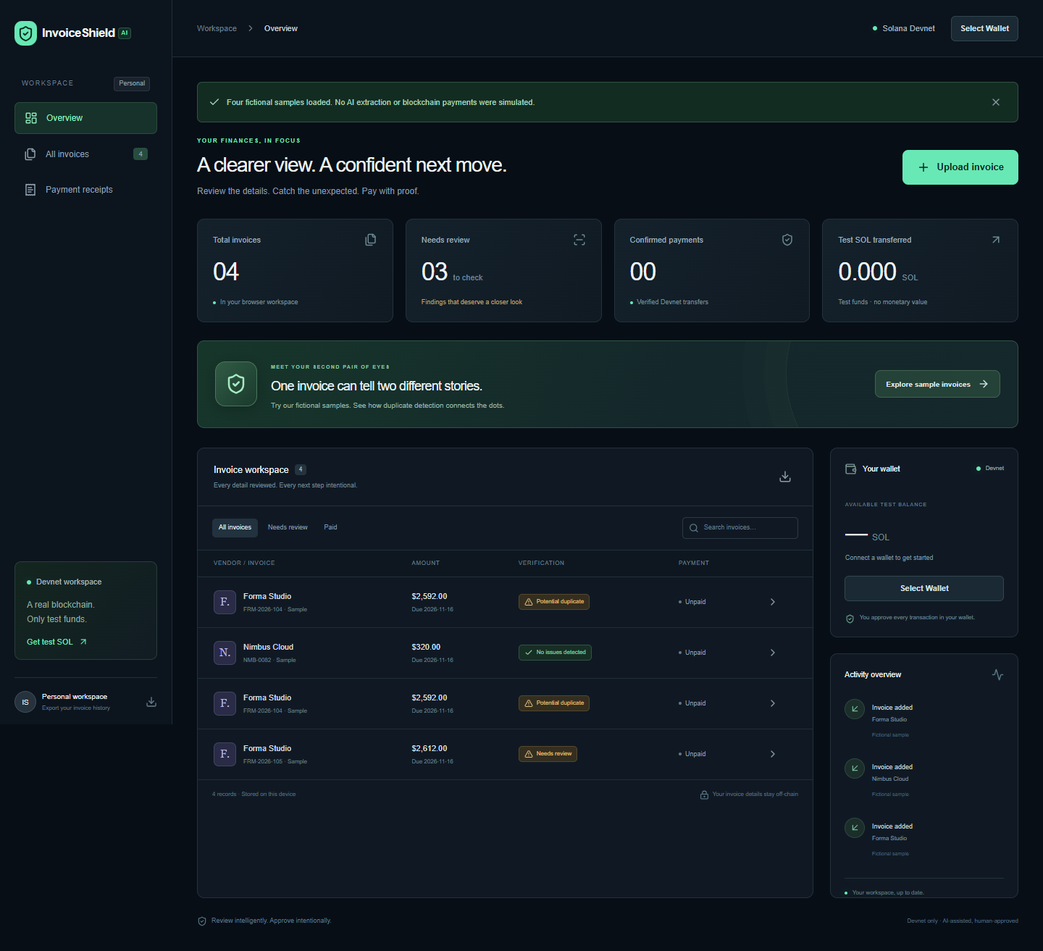
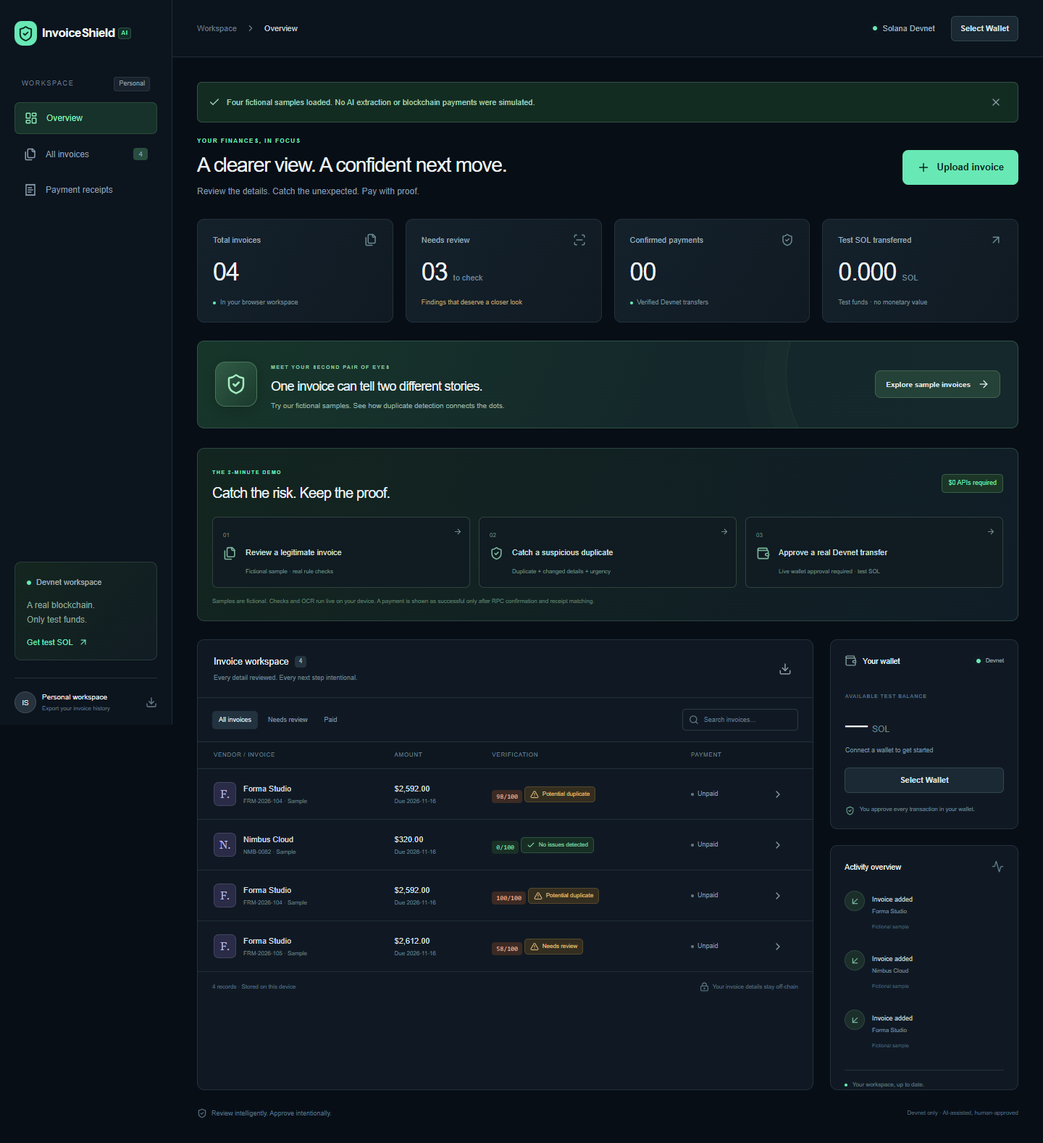
Document verified free demo and hackathon deployment handoff

diff --git a/README.md b/README.md
@@ -2,93 +2,98 @@
 
 **Verify smarter. Pay faster. Prove everything.**
 
-Invoice review and independently verifiable Solana Devnet transfers for small businesses. Built for a beginner hackathon entry: a compact, understandable workflow rather than a custom financial protocol.
+A free-first invoice review workspace with local document reading, explainable risk checks, optional local semantic AI, and wallet-approved Solana Devnet transfers.
 
-## What it does
+## A complete demo without paid APIs
 
-- Upload a PDF, PNG, or JPEG, preview it, and correct extracted invoice fields.
-- Optional OpenAI document interpretation and semantic comparison against summaries of up to 20 recent invoices through a server-only Responses API endpoint with schema validation. Missing values stay null. Invoice content and history are treated as untrusted data.
-- Deterministic checks for required fields, subtotal/tax arithmetic, quantity × price, line totals, exact duplicates, similar invoices, unusual amounts, and changed vendor payment details.
-- Invoice history in localStorage and original documents in IndexedDB. Export history as JSON. Nothing is shared across devices or users.
-- Connect a Solana Wallet Standard compatible wallet through wallet adapter, view its Devnet balance, and explicitly approve a separate test SOL transfer.
-- Verify RPC network identity, confirmation, sender signature, transfer recipient, and amount before showing a confirmed receipt. Print or open the transaction on Explorer.
-- Samples are clearly fictional. No AI run or blockchain transfer is simulated as real.
+- PDF text extraction with PDF.js and image/scanned-PDF OCR with Tesseract.js run in your browser. Workers and English recognition data are served by this app; documents are not sent to an OCR service.
+- Field mapping preserves unknown values as blank. Users can correct fields or paste document text. This is a limited pattern parser, not universal invoice understanding.
+- Deterministic rules check arithmetic, exact/near duplicates, changed payment details, unusual amounts, missing fields, urgent/secret payment requests, and embedded review instructions.
+- A transparent 0–100 rule-based review-priority score helps triage invoices. It is not a probability of fraud. High findings count 40 points per category, medium 18, informational 5; repeated findings in one category count once.
+- Optional Ollama analysis adds a separately labeled semantic report. When no model ran, the interface says so. Local OCR performs text recognition, not a semantic fraud verdict.
+- OpenAI remains optional and is disabled by default, even when a key is present. No API credits are required for the demo.
+- Wallet Standard connection, Devnet balances, explicitly approved test SOL transfers, confirmation checks, and matched on-chain receipts. No private key or seed phrase is requested or stored.
 
 ## Run locally
 
-Requires Node.js 20.9+ and pnpm 10.11.0. Node 24 was used for local checks.
+Use Node 24 and pnpm 10.11.0.
 
-```sh
-corepack enable
-pnpm install --frozen-lockfile
-cp .env.example .env.local
-pnpm dev
-```
+    corepack enable
+    pnpm install --frozen-lockfile
+    pnpm dev
 
-Open [the local app](http://127.0.0.1:3000). On Windows, copy `.env.example` to `.env.local` using File Explorer or `Copy-Item .env.example .env.local`.
+Open http://127.0.0.1:3000. No environment variables are needed for the free demo. The dev/build scripts prepare local PDF and OCR worker assets automatically. The English OCR model is included in the repository.
 
-The application works without an AI key through manual entry and deterministic checks. For document extraction, set `OPENAI_API_KEY` on the server. `OPENAI_MODEL` defaults to `gpt-4.1-mini`; choose an account-accessible model supporting image/PDF input and Structured Outputs. Configure `INVOICE_ANALYSIS_TOKEN` for public deployments and enter it in the upload dialog. It is required for paid extraction in production. Never put the API key in a `NEXT_PUBLIC_` variable or commit `.env.local`.
+If pnpm is already installed, Corepack setup is unnecessary. Windows PowerShell can copy the optional configuration with: Copy-Item .env.example .env.local.
 
-## Try the demo
+## Two-minute guided demo
 
-1. Open the workspace and choose **Explore sample invoices**.
-2. Open Forma Studio invoice 104 to inspect the exact duplicate warning. Open invoice 105 to inspect the near duplicate warning.
-3. Use the fictional Nimbus Cloud invoice for a clean review, or upload [the normal invoice image](public/samples/normal.png) with AI configured. [Exact duplicate](public/samples/exact-duplicate.png) and [near duplicate](public/samples/near-duplicate.png) images are also included.
-4. Connect your wallet and switch its display to **Solana Devnet**. Get test SOL from [Solana Faucet](https://faucet.solana.com/).
-5. Choose **Review test payment**, enter an independently confirmed recipient wallet, set a separate test SOL amount (e.g. 0.01), check the approval box, and sign in your wallet.
-6. Wait for confirmation and matching receipt verification. If RPC availability is delayed, use **Verify submitted transfer**. Do not send a second payment to resolve a timeout.
+1. Open the dashboard. Select Upload invoice, choose public/samples/normal.png, and click Extract for free. This performs real local OCR. Review and save the fields.
+2. Select Catch a suspicious duplicate in the guided demo. The fictional sample has a matching invoice number, changed payment details, and urgent instructions. Findings are live deterministic results, not prerecorded AI output. High-severity findings block payment.
+3. Select Review a legitimate invoice for the clean fictional Nimbus Cloud record.
+4. Connect a compatible Solana wallet, switch its display to Devnet, and get test SOL from https://faucet.solana.com/.
+5. Select Approve a real Devnet transfer. Enter an independently confirmed recipient and a separate test SOL amount, check the explicit confirmation, and sign in your wallet.
+6. Wait for RPC confirmation and sender/recipient/amount matching. Inspect Explorer and print the receipt. If verification is delayed, retry the same signature; do not send another payment.
 
-Sample loading does not run AI. To demonstrate actual AI extraction, upload a sample image with the server key configured. Samples 104 and its exact copy both flag each other once saved. High-severity findings block payment. The Nimbus sample has no duplicate.
+The invoice can be in USD while the demo transfer is in test SOL. This transfer does not settle the invoice's fiat value. A transfer receipt does not prove a vendor's identity. The app never simulates a successful payment.
 
-## Validation
+Downloadable PNG samples include normal, exact-duplicate, near-duplicate, and suspicious-duplicate. The guided samples are fictional, prefilled scenario data. Loading them does not claim OCR or a semantic model ran.
 
-```sh
-pnpm test
-pnpm typecheck
-pnpm build
-pnpm start
-```
+## Optional free semantic AI
 
-See [verification status](docs/VERIFICATION.md) for observed results and checks still requiring credentials or wallet approval. The payment unit tests use mocked RPC and signatures from ephemeral test keypairs; they do not prove a live Devnet transaction happened.
+Ollama is not required to run the demo. It was not installed/running on the development computer during verification. See docs/FREE-DEMO.md for optional setup and limitations.
 
-Browser smoke testing is provided by `pnpm test:browser`. It uses installed Edge by default; set `BROWSER_EXECUTABLE` for another installed Chromium browser. The script expects a running local server at port 3000 and no AI key for its fallback assertion. It never signs payments. Run `pnpm samples` to regenerate the fictional PNGs and SVG source assets.
+Install Ollama from https://ollama.com/download/windows, then run:
 
-## Architecture
+    ollama pull qwen2.5:1.5b
+    ollama serve
 
-Next.js App Router + TypeScript, Tailwind CSS with a shared fintech design system, Radix Dialog for focus-managed dialogs, and Lucide icons. The only custom backend endpoint is `POST /api/analyze`. AI input is bounded and checked against file signatures and declared MIME type. OpenAI structured output is validated with Zod. Deterministic invoice checks run locally and compare the current browser’s records.
+The model download is roughly 986 MB; performance depends on your hardware. OLLAMA_MODEL can select another installed model. The app checks for the configured local model and enables Analyze with Ollama when available. Only extracted text and a bounded summary of local history go to the local process. Results are schema validated and shown separately from rules.
 
-Solana wallet adapter discovers installed Wallet Standard wallets. `@solana/web3.js` creates a System Program transfer on the hardcoded Devnet RPC. A genesis-hash check refuses other networks. The application receives a signed transaction from the wallet, persists its signature before broadcast, then checks confirmation and queries parsed on-chain transfer details. Invoice data never goes into a memo or any other instruction.
+A hosted Vercel function cannot reach Ollama on your laptop. The public deployment uses free browser extraction and rule-based review; optional local semantic AI is for the local development server. Never expose Ollama publicly to work around that boundary.
 
-Payment duplication protection uses an in-flight guard, a cross-tab Web Lock, and a persisted pending/confirmed record. This prevents accidental repeats in the same browser profile. It is **not** a multi-user payment ledger or protection against clearing browser storage. Production team use needs authenticated, durable server records and server-side idempotency.
+## Optional OpenAI provider
 
-## Security and limitations
+The server endpoint is retained for future use, but ENABLE_OPENAI defaults to false. To opt in separately, the owner must explicitly set ENABLE_OPENAI=true, OPENAI_API_KEY, and INVOICE_ANALYSIS_TOKEN and use the optional cloud button. It may consume paid API credits. It is not used by the free-demo tests. The committed Vercel configuration disables it.
 
-- Devnet test SOL only. The separately approved SOL amount does not settle the invoice’s USD value. Transfer proof does not verify a vendor’s identity.
-- Review findings are evidence to investigate, not a fraud verdict or a guarantee of safety. Duplicate comparisons cover only local history; vendor normalization and similarity rules can produce false positives or miss altered documents.
-- Monetary checks currently use two-decimal rounding. Review currencies with other minor-unit conventions manually.
-- AI can misread fields. All extracted values require human review. No OCR fallback runs without AI credentials; manual entry remains available for every supported document type.
-- Local browser records are not an authenticated accounting system. Device users can modify them. Export excludes original documents. Clearing browser data removes invoice and payment history. Back it up before clearing data.
-- A signed but unbroadcast or failed transfer remains locked as pending conservatively. Inspect Explorer / RPC and export the record for diagnosis; the app does not offer an unsafe reset-and-pay-again button.
-- Public Devnet RPC is rate limited and can be unavailable. Receipt confirmation may need retries. Only on-curve wallet recipients are accepted; PDA recipients are intentionally excluded.
-- The AI access token is shared demo access control, not user authentication. Keep it private, set an OpenAI project spend cap, and rotate it after judging. Production business use needs real authentication, durable rate limits, and account isolation.
-- No custom smart contract, escrow, lending, yield, or on-chain invoice storage. DeFi track eligibility has not been established.
+Credentials stay server-only in the ignored .env.local file. They must never be placed in NEXT_PUBLIC variables. The configured key previously reached OpenAI but returned credit_balance_exhausted; successful live OpenAI extraction is not claimed.
 
-## Deployment and submission
+## Tests and observed status
 
-See [Vercel deployment](docs/DEPLOYMENT.md), [demo script](docs/DEMO.md), [submission draft](docs/SUBMISSION.md), and [AI development disclosure](docs/AI-DISCLOSURE.md).
+    pnpm test
+    pnpm typecheck
+    pnpm build
+    pnpm start
 
-No deployment URL is claimed until Vercel account authorization and live checks are complete.
+With a server running on port 3000:
 
-## Screenshots
+    pnpm test:free-demo
+    pnpm test:browser
 
-Browser screenshots are stored under `docs/screenshots/`. They show fictional sample data and must not be used to imply a live payment or live AI test occurred.
+The free-demo browser test performs actual PNG/JPEG OCR and PDF extraction, checks fields against fictional fixtures, inspects suspicious findings, and asserts no cloud AI calls. Browser tests use installed Microsoft Edge by default; BROWSER_EXECUTABLE can select another Chromium browser.
 
-![InvoiceShield landing page](docs/screenshots/landing.png)
-![InvoiceShield dashboard with fictional sample data](docs/screenshots/dashboard.png)
-![Invoice review and duplicate findings](docs/screenshots/review.png)
+See docs/VERIFICATION.md for actual results and remaining live-wallet/deployment checks. Unit tests use mocked RPC and local-model responses. They are not evidence that a live wallet signed a payment or that Ollama ran.
 
-## License
+## Architecture and boundaries
 
-Original project code is MIT licensed. Dependencies retain their respective licenses; see the lockfile for exact installed versions. Invoice samples are fictional project assets.
+Next.js App Router, TypeScript, Tailwind CSS, Radix Dialog, Lucide icons, PDF.js, Tesseract.js, Zod, Solana wallet adapter, and the Solana JavaScript SDK. Records live in localStorage; original documents live in IndexedDB. JSON export excludes original files. Clearing browser data removes history. There is no shared multi-user accounting backend.
 
-Implementation references: [Next.js installation](https://nextjs.org/docs/app/getting-started/installation), [OpenAI file inputs](https://developers.openai.com/api/docs/guides/file-inputs), [OpenAI Structured Outputs](https://developers.openai.com/api/docs/guides/structured-outputs), and [Solana payment RPC guidance](https://solana.com/docs/payments/interacting-with-solana).
+The payment path checks the full Devnet genesis hash, builds a System Program transfer, verifies that the wallet-signed message matches the approved message, persists its signature before broadcasting, and verifies confirmation plus actual transfer details. Network errors can retry receipt lookup without creating another transaction. Cross-tab Web Locks, in-flight guards, and persisted pending records prevent accidental resubmission in one browser profile. They do not provide durable multi-user idempotency.
+
+Upload limits: 4 MB, at most five PDF pages, English OCR. Layout variation and poor scans can cause missing or misread fields. Monetary rules currently use two-decimal rounding. Similarity and suspicious-request rules can generate false positives and miss altered invoices. A zero score does not establish safety or authenticity.
+
+Signed but unbroadcast/failed transactions remain conservatively pending for inspection; the app offers no unsafe reset-and-pay-again shortcut. Public Devnet RPC is rate limited. Only on-curve wallet recipients are accepted. No custom contract, escrow, lending, yield, or real-funds settlement is implemented.
+
+## Submission materials
+
+- docs/DEMO.md: free two-minute script and judge questions.
+- docs/DEPLOYMENT.md: free Vercel deployment checklist.
+- docs/SUBMISSION.md: honest submission draft and award positioning.
+- docs/AI-DISCLOSURE.md: development and runtime AI disclosure.
+- docs/FREE-DEMO.md: local-model setup and fallback matrix.
+
+![Dashboard with fictional sample data](docs/screenshots/dashboard.png)
+![Real local OCR extraction](docs/screenshots/free-extraction.png)
+![Suspicious invoice review](docs/screenshots/suspicious-review.png)
+
+Original code is MIT licensed. Adapted wallet styling, PDF/OCR software, and OCR language data retain their respective licenses; see third-party/README.md.

diff --git a/docs/DEMO.md b/docs/DEMO.md
@@ -1,27 +1,33 @@
-# 110-second demo script
+# Two-minute demo: entirely free
 
-Rehearse on the deployed URL with a funded Devnet wallet, a recipient wallet address you independently confirmed, and AI already configured. Have the access token ready. Do not record private wallet information or the API key. If these prerequisites are unavailable, describe the limitation honestly rather than replacing a live transaction with a fake success.
+Prerequisites: app running locally or on a free deployment, compatible wallet with Devnet test SOL, and an independently confirmed recipient. No paid API key or access token is needed. Rehearse the wallet steps; Devnet confirmation can take longer than the target video window. Never replace a delayed transaction with a fake success.
 
-**0–15 seconds — Problem.** “A duplicate invoice can look completely ordinary. InvoiceShield AI gives small businesses a second pair of eyes before money moves, and verifiable proof afterward.” Open the landing page and launch the workspace.
+**0–15 seconds — Problem.** “A duplicate invoice can look ordinary. InvoiceShield gives small businesses a second pair of eyes before money moves and independent proof afterward.” Show the landing page, then open the workspace.
 
-**15–40 seconds — Real extraction.** Upload `public/samples/normal.png`, select Extract with AI, and show the populated fields. “AI reads the document; I review what it extracted. Unknown fields stay blank.” Save the record. If no AI key is available, say “AI is not configured in this demo; these fields are manually entered,” and use the deterministic path explicitly.
+**15–40 seconds — Actual free extraction.** Upload normal.png and click Extract for free. “This is real text recognition on my device, with no paid API. The extracted values are editable; unknown values stay blank.” Show vendor, reference, totals, and line items. Save.
 
-**40–60 seconds — Duplicates.** Upload `exact-duplicate.png` using AI, save, and open the duplicate finding. “The vendor and invoice number match an earlier record. This check works without AI and blocks payment.” If time is short, use loaded fictional samples and clearly identify them.
+**40–65 seconds — Risk and evidence.** Select Catch a suspicious duplicate. “The invoice number matches an earlier record. Payment details changed, and the document demands an urgent transfer. These are deterministic findings with visible evidence. The score prioritizes review; it is not a fraud probability.” Show that payment is blocked. Identify the record as fictional sample data.
 
-**60–75 seconds — Clean invoice.** Open the clean fictional Nimbus Cloud sample. “Here the fields and arithmetic agree. This is a review aid, not a guarantee of authenticity.” Select Review test payment and connect the wallet.
+**65–80 seconds — Legitimate record.** Select Review a legitimate invoice. “The Nimbus Cloud sample has complete fields and consistent arithmetic. No detected issue is not a guarantee of authenticity. I still verify the recipient independently.” Connect the Devnet wallet.
 
-**75–100 seconds — Actual Devnet transfer.** Enter the confirmed recipient and 0.01 test SOL, approve the explicit confirmation, then sign in the wallet. “The invoice is in USD, but this is a separate test SOL demonstration. It does not settle the dollar invoice.” Wait for real confirmation. Allow additional time if Devnet RPC is slow; never substitute a fake confirmation.
+**80–110 seconds — Real transfer.** Select Approve a real Devnet transfer, enter the recipient and 0.01 test SOL, explicitly confirm, and sign in the wallet. “This is a real Devnet transfer using test funds. It does not settle the invoice's USD value. The app never signs for me.” Wait for actual confirmation.
 
-**100–110 seconds — Proof.** Show the receipt and Explorer. “InvoiceShield checks the confirmed transfer’s sender, recipient, and amount against what I approved. No invoice details are written on-chain. Verify smarter. Pay faster. Prove everything.”
+**110–120 seconds — Proof.** Open the verified receipt and Explorer. “The sender, recipient, and amount are checked against the blockchain. No invoice details go on-chain. Verify smarter. Pay faster. Prove everything.”
+
+## AI explanation for judges
+
+Local OCR performs neural text recognition. PDF text extraction and field mapping are distinct from semantic reasoning. Rules handle arithmetic, duplicates, changed details, and suspicious instructions. Optional Ollama can add a separately labeled semantic report when a local model is installed and has actually completed a request. If it is not available, say exactly that. Do not claim that rule-based findings came from a language model.
+
+For an AI-track demonstration with Ollama, preinstall and warm the model before recording, run it on the local server, and show the returned report and model label. Its integration is not a claim of successful model inference until tested on the owner's computer.
 
 ## Judge questions
 
-**Why Solana?** The payment is a real Devnet System Program transfer. Its confirmation and transfer data can be checked independently of the application. There is no unnecessary custom contract.
+**Why Solana?** A wallet-approved Devnet System Program transfer produces independently inspectable payment evidence. There is no unnecessary custom contract.
 
-**What is AI doing?** Interpreting PDF/image content and explaining extraction uncertainties. Arithmetic and duplicate rules are deterministic. AI never authorizes payments.
+**Does the app detect proven fraud?** No. It identifies review signals. Vendor identity and invoice authenticity require independent verification.
 
-**What is stored?** Records in this browser’s localStorage, originals in IndexedDB. Only a SOL transfer goes on-chain. A future team product needs authenticated, durable storage.
+**What stops duplicates?** Rule checks compare browser history. Payment submission uses a persistent pending record, a cross-tab lock, and an in-flight guard. Production team use needs authenticated, durable records and server-enforced idempotency.
 
-**What prevents paying twice?** A persisted pending record, a per-browser cross-tab lock, and an in-flight guard. This is accidental-duplicate protection in a single browser, not a shared accounting ledger.
+**Where is data stored?** In this browser. Original documents stay in IndexedDB. OCR runs locally; optional Ollama receives text on the same development computer. Only the approved transfer goes on-chain.
 
-**Does a receipt prove an invoice is legitimate?** No. It proves a matching transfer occurred on Devnet. Business identity and invoice authenticity still require human verification.
+**What is free?** PDF reading, local OCR, rules, sample scenarios, optional local Ollama inference, and Devnet test funds. Public hosting requires an account that qualifies for the chosen free plan. OpenAI is disabled and unnecessary.

diff --git a/docs/VERIFICATION.md b/docs/VERIFICATION.md
@@ -1,32 +1,28 @@
 # Verification status
 
-## Observed locally
+## Verified free workflow
 
-- `vitest run`: 34 tests passed across invoice, upload endpoint, and payment suites.
-- `tsc --noEmit`: passed.
-- `next build`: passed; `/`, `/dashboard`, and `/api/analyze` built successfully.
-- `next dev --hostname 127.0.0.1`: started successfully.
-- HTTP GET `/` and `/dashboard`: returned 200.
-- Production server (`next start`): started successfully.
-- Headless Edge browser regression against the production server: passed landing navigation, sample loading, exact and near duplicate findings, PNG upload preview, honest missing-key AI fallback, manual field entry and saving, no-wallet payment gating, reload persistence, mobile navigation, and no page errors.
-- Mobile viewport at 390 × 844: no page-wide horizontal overflow. Invoice tables scroll within their card. Landing, dashboard, review, and mobile screenshots were captured; mobile and review screenshots were visually inspected after fixes.
-- Live read-only Solana Devnet RPC `getGenesisHash`: returned `EtWTRABZaYq6iMfeYKouRu166VU2xqa1wcaWoxPkrZBG`, matching the network safeguard. This is not a transaction test.
-- `git diff --check`: passed.
+- 54 unit tests pass across invoice validation/arithmetic/duplicates, local field mapping, suspicious payment requests, risk scoring, optional local-model endpoint validation, private diagnostics, cloud opt-in behavior, and payment safeguards.
+- TypeScript passes and the Next.js production build succeeds with the local PDF/OCR assets prepared.
+- Actual browser tests on fictional fixtures pass for PNG/JPEG OCR and PDF extraction. Vendor, reference, dates, subtotal, tax, total, and line items were checked against known values in the PNG fixture. PDF/JPEG vendor and total were also checked.
+- Free-demo tests assert no OpenAI/cloud-analysis requests. Semantic AI is explicitly NOT RUN when Ollama is absent.
+- Guided duplicate review detects the matching reference, changed payment details, and suspicious urgent instructions. High rule-based findings block payment.
+- Desktop/mobile browser smoke checks pass for landing navigation, samples, upload preview, disabled cloud provider, manual entry, saving, reload persistence, and payment gating. The payment dialog closes before the separate wallet selector opens; opening and closing that selector was verified. No page errors or page-wide mobile overflow were observed at 390 x 844.
+- Local development and production servers start successfully. GET / and /dashboard return 200.
+- The configured .env.local contains both existing credential variables, is ignored by Git, and is not tracked. Exact-value scans found neither credential in tracked source or browser static assets. Values were not displayed.
+- Read-only live Devnet identity and latest-blockhash RPC checks pass. The full genesis hash matches the pinned Devnet guard. Receipt readers now opt in to transaction version 1 supported by the locked SDK.
+- Payment tests cover wallet rejection, wallet-modified messages, persisted signatures before broadcast, failed confirmation, delayed lookup retries, transport-error recovery, and sender/recipient/amount matching. These are mocked-RPC tests, not live wallet approvals.
 
-These results apply to the implementation checked during development; rerun after changes.
+## External or optional checks still outstanding
 
-## Still requires external verification
+- A compatible installed wallet must be connected and funded with Devnet test SOL. The owner must confirm a recipient, approve a transfer in the wallet, and inspect the resulting confirmed receipt. No app-submitted real payment has been claimed.
+- Read-only sampling of recent public transactions did not find a suitable direct transfer; it was not used to seed a receipt or presented as an InvoiceShield payment.
+- Ollama was not installed/running. Optional semantic inference is not live-verified. The complete free demo does not depend on installing it.
+- An earlier explicitly requested OpenAI call reached the provider but returned credit_balance_exhausted. The current free build disables OpenAI by default and requires no funding. Successful live OpenAI extraction is not claimed.
+- GitHub push authorization, Vercel account/repository connection, free deployment, public URL checks, and final two-minute wallet rehearsal remain pending owner actions.
 
-- Actual OpenAI PDF and image extraction: no API credentials supplied.
-- Wallet discovery, connection, balance, signing, and a real Devnet transfer: requires an installed compatible wallet, test funds, confirmed recipient, and owner approval.
-- Live receipt matching: requires that real confirmed transfer.
-- Vercel deployment and public judging URL: requires owner account authorization and environment setup.
-- End-to-end demo duration: rehearse after live extraction and payment are enabled.
+## Honest demo boundaries
 
-Original document preview was exercised with PNG. PDF and JPEG model-content routing is covered by mocked endpoint tests; actual model interpretation of those formats remains unverified.
+Fictional samples contain prepared data. Loading them does not imply OCR or semantic analysis ran. Actual OCR tests are listed separately above. No successful blockchain receipt is preloaded. A score of zero is not a safety guarantee or a fraud probability.
 
-## Development handoff
-
-The implementation and documentation are committed locally. GitHub pushing and Vercel publication have not been authorized or performed. The application is not yet declared ready for judging because the live AI, wallet transaction, receipt, and deployment acceptance checks remain outstanding.
-
-Do not describe mocked RPC tests as a successful blockchain transfer. Do not describe sample loading as a successful AI analysis.
+Production-browser checks should be rerun after material application changes. A local build is not evidence that public deployment succeeded.

diff --git a/docs/DEPLOYMENT.md b/docs/DEPLOYMENT.md
@@ -1,23 +1,29 @@
-# Deploy to Vercel
+# Free Vercel deployment
 
-1. Push the committed repository to `Caidenn2/InvoiceShield-AI` when the owner authorizes pushing. The project is configured for Next.js with a pnpm lockfile.
-2. Sign in to Vercel and import that GitHub repository. Use the repository root, the detected Next.js preset, Node 24, `pnpm install --frozen-lockfile`, and `pnpm build`.
-3. Add server-only environment variables: `OPENAI_API_KEY`, optional `OPENAI_MODEL` (default `gpt-4.1-mini`), and a strong private `INVOICE_ANALYSIS_TOKEN`. The token is required to enable paid AI extraction in production. Configure an OpenAI project spending cap as well. Do not paste secrets into the repository, browser console, or chat.
-4. Deploy. Record only the actual URL returned by Vercel. Disable deployment protection for the judging URL if required; the owner should choose the desired public access setting.
-5. On the HTTPS deployment, open `/` and `/dashboard`. Upload a fictional PNG and PDF, check AI extraction, correct a value, save it, reload, and confirm history persists. Repeat on a mobile-sized viewport.
-6. Install/use a Wallet Standard compatible Solana wallet, switch it to Devnet, fund it with faucet test SOL, connect, verify the balance, confirm a recipient you control, and approve a small test transfer. Check the receipt against Solana Explorer with `cluster=devnet`.
-7. Print the receipt and rehearse the two-minute demo using the deployed URL.
+The app is prepared for a free personal Vercel deployment. Do not upgrade a plan, add paid services, or enable OpenAI for this demo.
 
-## Hosting constraints
+1. Obtain owner authorization to push this repository to Caidenn2/InvoiceShield-AI. Connect the owner's GitHub repository to Vercel using the Vercel integration or account UI.
+2. Choose the free personal plan only if the project/account qualifies. Stop if the provider requires a paid plan or payment authorization.
+3. Import the repository root with the Next.js preset and Node 24. Install with pnpm install --frozen-lockfile and build with pnpm build. The build script copies PDF/OCR workers from installed packages. The English recognition data is already committed.
+4. No secrets or environment variables are required for the free demo. vercel.json sets ENABLE_OPENAI=false. Do not upload the existing .env.local or configure the OpenAI key on the free deployment.
+5. Deploy and record only the actual returned URL. The owner must choose public judging access or adjust deployment protection if necessary.
+6. On the public HTTPS URL, upload fictional PNG, JPEG, and PDF invoices. Click Extract for free, review fields, save, reload, inspect duplicate/risk findings, and check mobile layout.
+7. Connect a Devnet wallet, fund it with test SOL, confirm a recipient, approve a small transfer, and compare the receipt with Solana Explorer using cluster=devnet. Rehearse the two-minute demo.
 
-This is a server-backed Next.js app. Do not use a static export: it would remove the AI endpoint. Uploads are limited to 4 MB to fit below [Vercel's documented 4.5 MB function payload limit](https://vercel.com/docs/functions/limitations). Use direct-to-object-storage uploads before supporting larger production documents. AI timeout is 45 seconds and the route declares a 60-second maximum; check the selected Vercel plan’s limits.
+## Runtime boundaries
 
-History is browser-local; Vercel redeploys do not provide a shared database. Changing hostname creates a different local workspace. Do not promise judges that records will follow them across devices.
+Browser extraction and rule-based review work on the public deployment without paid services. The server's localhost address is the hosting machine, not the visitor's laptop. Therefore Ollama analysis is deliberately unavailable on Vercel. Use the local development server for optional local semantic AI.
 
-## Required owner actions
+This remains a server-backed Next.js deployment with optional provider endpoints; no paid backend database is needed. History is browser-local and does not follow users across devices or hostnames. There is no shared team ledger.
 
-- Provide the OpenAI key privately through `.env.local` or the Vercel environment UI.
-- Authorize the GitHub push and Vercel account/repository connection.
-- Approve the live Devnet transaction in the wallet. No private key or seed phrase is needed by this app or by Codex.
+Documents are capped at 4 MB and five PDF pages. This is below Vercel's documented 4.5 MB function payload limit, although the default extraction path reads files in the browser rather than uploading them to a function. English OCR model/worker assets are served statically. Avoid enabling telemetry or cloud integrations that incur charges.
 
-The local build is deployment preparation, not evidence of a successful public deployment.
+## Account actions still required
+
+- Authorize the repository push if it has not already been authorized.
+- Install/connect Vercel and select a free eligible account/project.
+- Approve the real Devnet transaction in the wallet.
+
+Local builds do not prove a public deployment succeeded. Never invent a URL or claim an owner-approved payment occurred before it is confirmed.
+
+References: https://vercel.com/docs/plans/hobby and https://vercel.com/docs/functions/limitations.

diff --git a/docs/SUBMISSION.md b/docs/SUBMISSION.md
@@ -10,7 +10,7 @@ Users upload invoice documents, review extracted or manually entered fields, ins
 
 ## How it was built
 
-Next.js and TypeScript power the frontend and a small server-side extraction endpoint. OpenAI interprets documents with structured output. Zod validates fields. Deterministic rules check arithmetic, duplicates, changed payment details, and unusual values. Wallet adapter and the Solana JavaScript SDK support wallet-approved Devnet transfers. Browser storage keeps the hackathon implementation lightweight. Radix dialogs, Lucide icons, Tailwind, and a custom visual system support a consistent interface.
+Next.js and TypeScript power the application. PDF.js and a local Tesseract recognition model read documents in the browser without paid API calls. A limited pattern mapper fills editable fields. Deterministic rules check arithmetic, duplicates, changed payment details, unusual values, and suspicious requests, with an explicitly non-probabilistic review-priority score. Optional Ollama analysis has a separate semantic-report section and an honest NOT RUN state. Zod validates inputs and model reports. Wallet adapter and the Solana JavaScript SDK support wallet-approved Devnet transfers. Browser storage, Radix dialogs, Lucide icons, Tailwind, and a custom visual system keep the implementation focused. OpenAI is optional and disabled by default.
 
 ## Challenges
 
@@ -18,7 +18,7 @@ Separating AI interpretation from reliable calculations; preserving nulls for un
 
 ## Accomplishments
 
-Implemented an integrated invoice review and Devnet transfer workflow with an accessible dialog foundation, fictional sample invoices, explicit fallback behavior when AI is unavailable, deterministic review tests, and mocked-RPC payment tests. Consult VERIFICATION.md before claiming live AI, wallet, payment, browser, or deployment success.
+Implemented an integrated free invoice review and Devnet transfer workflow. Actual browser tests extracted PNG/JPEG invoices with local OCR and read a PDF fixture, checked values, exercised suspicious findings, and asserted no cloud AI calls. Unit tests cover rules, provider validation, and mocked-RPC payment behavior. Consult VERIFICATION.md before claiming live Ollama inference, a wallet-approved payment, or deployment success.
 
 ## What was learned
 
@@ -30,6 +30,6 @@ Authenticated team workspaces, durable payment intents with server-enforced idem
 
 ## Award positioning
 
-Best Beginner Hack is the primary positioning: a useful, understandable workflow with clear technical boundaries. AI track claims require demonstrating real extraction with a configured API key. Overall positioning depends on a polished, verified public demo. Do not claim DeFi eligibility: this app currently implements invoice review and transfers, not lending, liquidity, yield, or another established DeFi protocol. Check the event’s actual criteria before selecting tracks. No award or eligibility is claimed here.
+Best Beginner Hack is the primary positioning: a useful, understandable, free workflow with transparent technical boundaries. AI track discussion should distinguish actual local neural OCR from deterministic checks and optional semantic reasoning. Demonstrate an actual local model report before claiming live Ollama inference. Overall positioning depends on a polished, verified public demo with a real wallet-approved Devnet payment. Do not claim DeFi eligibility: this app implements review and transfers, not lending, liquidity, yield, or another established DeFi protocol. Check the event’s actual criteria before selecting tracks. No award or eligibility is claimed here.
 
 AI development assistance is disclosed in AI-DISCLOSURE.md. Add the actual deployment URL, final demo video, screenshots, and final tested commit before submission.

diff --git a/docs/FREE-DEMO.md b/docs/FREE-DEMO.md
@@ -1,0 +1,38 @@
+# Free demo and optional local AI
+
+## Zero paid-service requirements
+
+Run pnpm install --frozen-lockfile followed by pnpm dev. The app prepares its own PDF and OCR workers and serves the included English recognition data. The default extraction runs entirely in the browser. No OpenAI key, token, paid OCR endpoint, or hosted language model is needed.
+
+If local OCR cannot read a document, paste its text into Read or correct document text, choose Map text to fields, and correct the values manually. Guided fictional scenarios work even when OCR or semantic AI is unavailable. Their labels never imply a model ran.
+
+## Optional Ollama setup
+
+Ollama was not found on the development computer. Installation/model download was kept outside the critical demo path. To add semantic AI later:
+
+1. Download Ollama for Windows from https://ollama.com/download/windows. Run the installer yourself if Windows requests permission.
+2. Open a terminal and run: ollama pull qwen2.5:1.5b.
+3. Start Ollama if it is not already running: ollama serve.
+4. Set OLLAMA_MODEL=qwen2.5:1.5b in the ignored .env.local file only if you want to state the default explicitly. Restart the local app.
+5. Upload/extract a document. Analyze with Ollama becomes available when the local app detects that model. Wait for the actual model response, inspect it, and save. The receipt and rule-based score remain independent of semantic AI.
+
+The model download is approximately 986 MB according to its model listing. A smaller qwen2.5:0.5b variant is approximately 398 MB and may run on constrained machines with weaker reasoning. Model performance and memory needs must be checked on the actual computer. The integration has a 45-second request timeout and leaves rule-based review usable if inference fails.
+
+Do not expose Ollama on the public internet. The app only calls the loopback service at 127.0.0.1:11434. A Vercel deployment cannot access a model on your laptop; public hosted demos retain free local OCR and rules and clearly report semantic AI as unavailable.
+
+## Fallback matrix
+
+| Capability           | Default free path                    | If unavailable                                         |
+| -------------------- | ------------------------------------ | ------------------------------------------------------ |
+| PDF text             | Browser PDF.js                       | Render scanned page and use local OCR; or manual entry |
+| PNG/JPEG/scanned PDF | Browser Tesseract model              | Paste text or enter fields                             |
+| Invoice risk         | Deterministic checks                 | Correct missing fields; rules need no model            |
+| Semantic analysis    | Optional local Ollama                | Explicit NOT RUN label; no fabricated model report     |
+| Blockchain payment   | Real wallet-approved Devnet transfer | Show pending/error; never fake success                 |
+| Public demo          | Eligible free Vercel account         | Local demo while account authorization is pending      |
+
+## What can be claimed
+
+Claim live OCR only after actually extracting a document. Claim live semantic AI only after an installed model returns a report. Claim a completed payment only after real wallet approval, RPC confirmation, and transfer matching. The included demo data is fictional; no successful receipt is seeded.
+
+Official references: https://ollama.com/library/qwen2.5, https://docs.ollama.com/api/generate, https://github.com/naptha/tesseract.js/blob/master/docs/local-installation.md, https://mozilla.github.io/pdf.js/examples/.

diff --git a/docs/AI-DISCLOSURE.md b/docs/AI-DISCLOSURE.md
@@ -1,9 +1,18 @@
-# AI development disclosure
+# AI development and runtime disclosure
 
-InvoiceShield AI was developed with OpenAI Codex assistance for application architecture, code, interface design, deterministic checks, Solana integration, tests, documentation, and fictional demo assets. The project owner is responsible for reviewing the implementation and complying with the event’s actual submission rules.
+InvoiceShield AI was developed with OpenAI Codex assistance for architecture, code, design, tests, fictional assets, and documentation. The owner is responsible for reviewing the implementation and checking actual event rules.
 
-At runtime, optional OpenAI Responses API document extraction interprets uploaded invoices and returns schema-validated fields and uncertainty explanations. AI is not used to sign or initiate transfers. Required-field checks, arithmetic, duplicate heuristics, and receipt matching are deterministic code. Sample data and manual entry do not imply an AI model ran.
+## Runtime provenance
 
-AI-generated code and extraction results may contain errors. The verification report does not establish authenticity or prove fraud. Human review, recipient verification, and wallet approval remain necessary.
+- PDF.js reads existing PDF text; it is not semantic AI.
+- Tesseract.js runs a local OCR recognition model to turn images or scanned PDF pages into text. It does not decide whether an invoice is fraudulent.
+- Explicit pattern mapping extracts fields from recognized text. Unknown values remain blank, and humans can correct them.
+- Arithmetic, duplicate matching, changed payment details, unusual amounts, suspicious requests, embedded instructions, and review-priority scoring are deterministic rules. Their findings are labeled RULE-BASED.
+- Optional Ollama inference can produce a separately labeled local semantic report. No report is shown as live unless the model actually returns validated output. Ollama was not installed/running on the development computer during verification; its endpoint integration is covered by mocked tests, not claimed as successful local inference.
+- Optional OpenAI extraction is retained but disabled by default and unnecessary for the free demo. A configured key previously returned an exhausted-credit error. Successful live OpenAI extraction is not claimed, and no funding is required for the current demo.
 
-Live AI behavior is unverified until a configured API key is used successfully with a real sample upload. Live blockchain behavior is unverified until an owner-approved Devnet payment is confirmed and its receipt is inspected. Tests using mocked RPC responses are identified as unit tests.
+Fictional samples are labeled as samples. Loading them does not run OCR or AI. Real OCR/browser tests use project fixtures and make no cloud AI calls. Wallet unit tests use mocked RPC responses and ephemeral test keys; they do not prove a real payment happened.
+
+The application never requests private keys, signs without the connected wallet, autonomously initiates payments, writes invoice details on-chain, or simulates a successful transfer as real. A receipt requires matching confirmed blockchain data. A live owner-approved payment and public deployment must be verified separately before judging readiness is declared.
+
+AI and OCR can misread documents. Rule-based signals are not fraud verdicts. A zero risk score is not a guarantee of safety, and the score is not a fraud probability.
